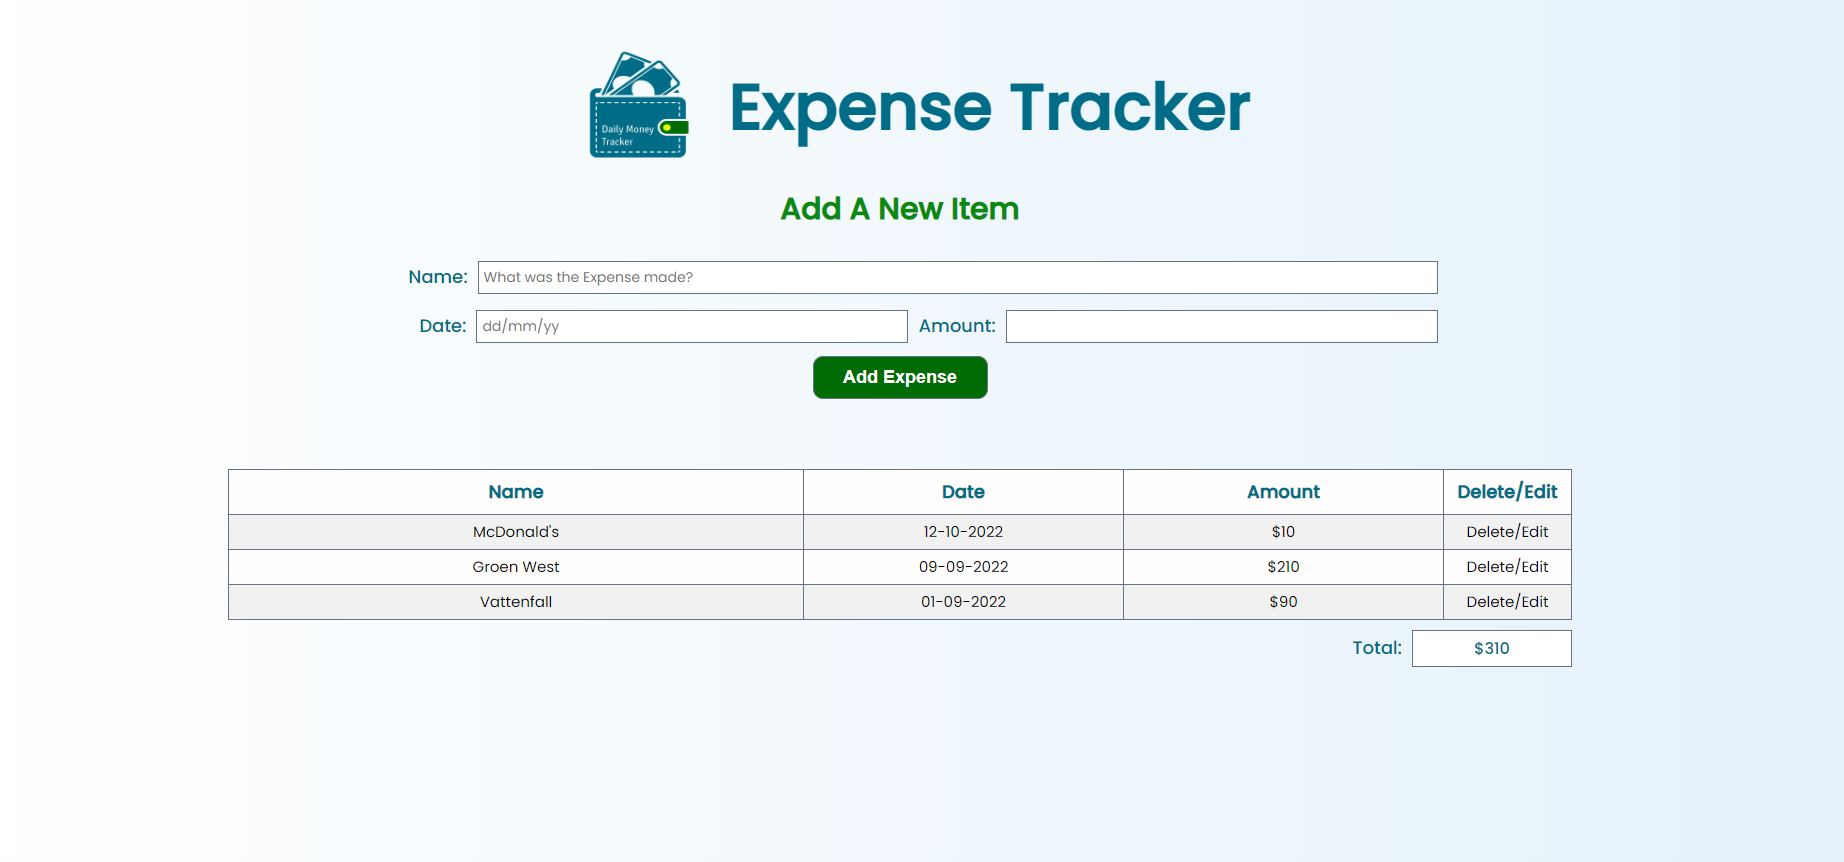
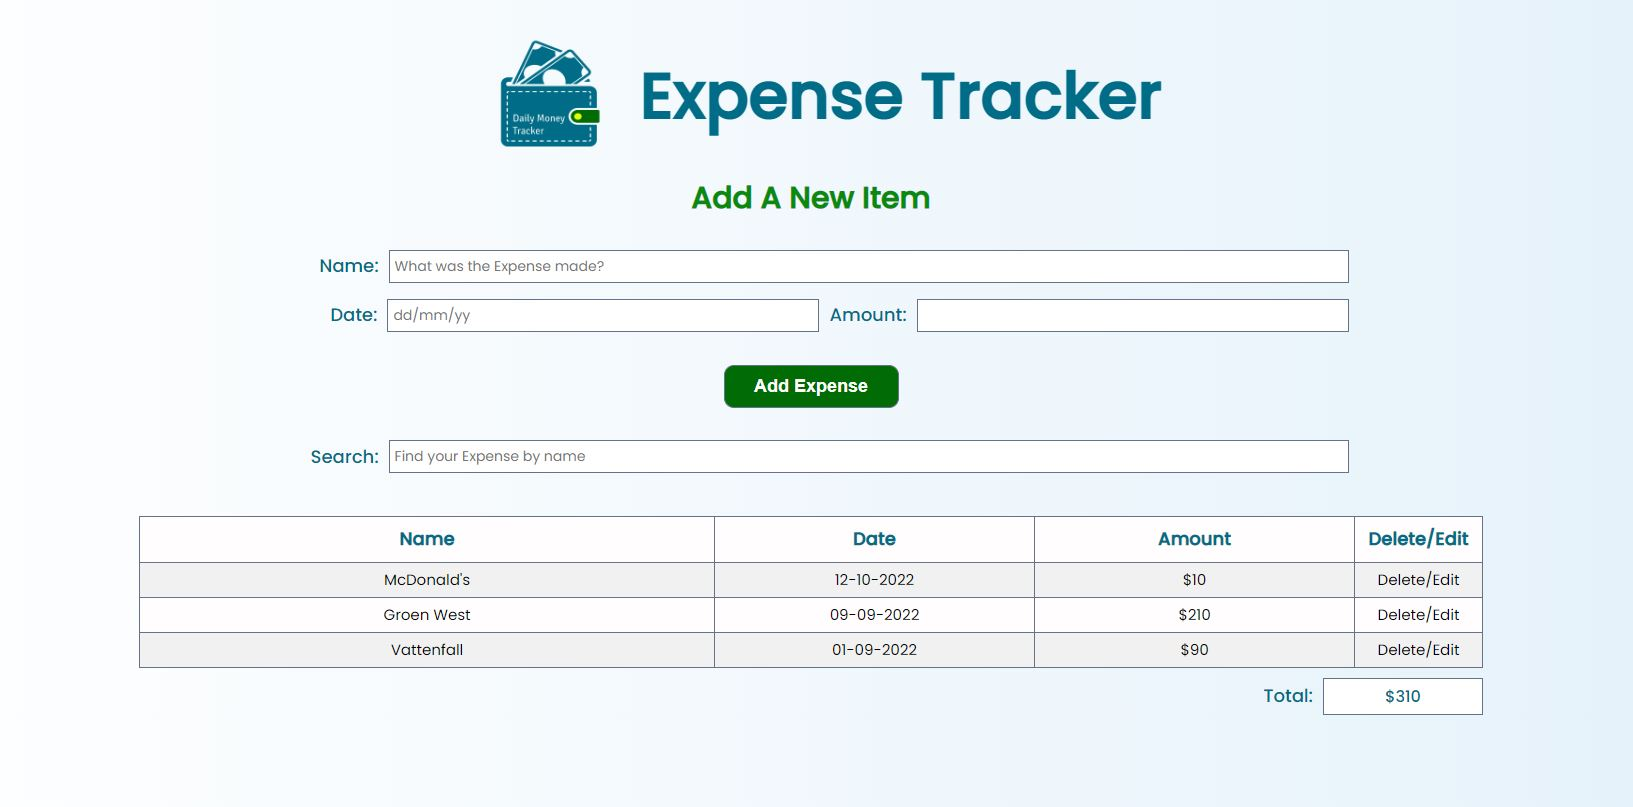
adding search form in HTML and CSS

diff --git a/01-Expense-tracker/index.html b/01-Expense-tracker/index.html
@@ -16,7 +16,6 @@
         </ul>
       </nav>
       <h2 class="header">Add A New Item</h2> 
-
         <form id="form-name">
           <h3 class="input-description"> Name:</h2>
           <input type="text" id="input-name" placeholder="What was the Expense made?"/>
@@ -28,6 +27,10 @@
           <input type="text" class="input-2"/>
         </form>
         <button id="submit">Add Expense</button>
+        <form id="form-search">
+          <h3 class="input-description"> Search:</h2>
+          <input type="text" id="input-search" placeholder="Find your Expense by name"/>
+        </form>
         <section class="section">
           <table id="table">
             <tr>

diff --git a/01-Expense-tracker/public/style.css b/01-Expense-tracker/public/style.css
@@ -77,6 +77,22 @@ ul {
   border: 1px solid #66728a;
 }
 
+#form-search {
+  display: flex;
+  margin: 10px 0;
+  width: 78vw;
+  align-items: center;
+  justify-content: flex-end;
+}
+
+#input-search {
+  font-family: 'Poppins', sans-serif;
+  font-size: 14px;
+  padding: 5px;
+  width: 60rem;
+  border: 1px solid #66728a;
+}
+
 .input-description {
   font-size: 18px;
   font-weight: 500;
@@ -102,7 +118,7 @@ ul {
   display: block;
   text-align: center;
   width: 175px;
-  margin: 10px auto;
+  margin: 30px auto;
   border-radius: 10px;
 }
 
@@ -113,7 +129,7 @@ ul {
 
 table {
   width: 70%;
-  margin: 70px auto auto auto;
+  margin: 40px auto auto auto;
 }
 
 th {

diff --git a/01-Expense-tracker/README.md b/01-Expense-tracker/README.md
@@ -2,11 +2,11 @@
 
 ## 1. Description
 
-This app help you tracking your expanses.
+This app help you tracking your expanses.</br>
 1- To how you are going to pay.</br>
 2- When you have to pay.</br>
 3- How much you have to pay.</br>
-4- The total amount you have to pay.  
+4- The total amount you have to pay.
 
 ## 2. Link and Preview
 
